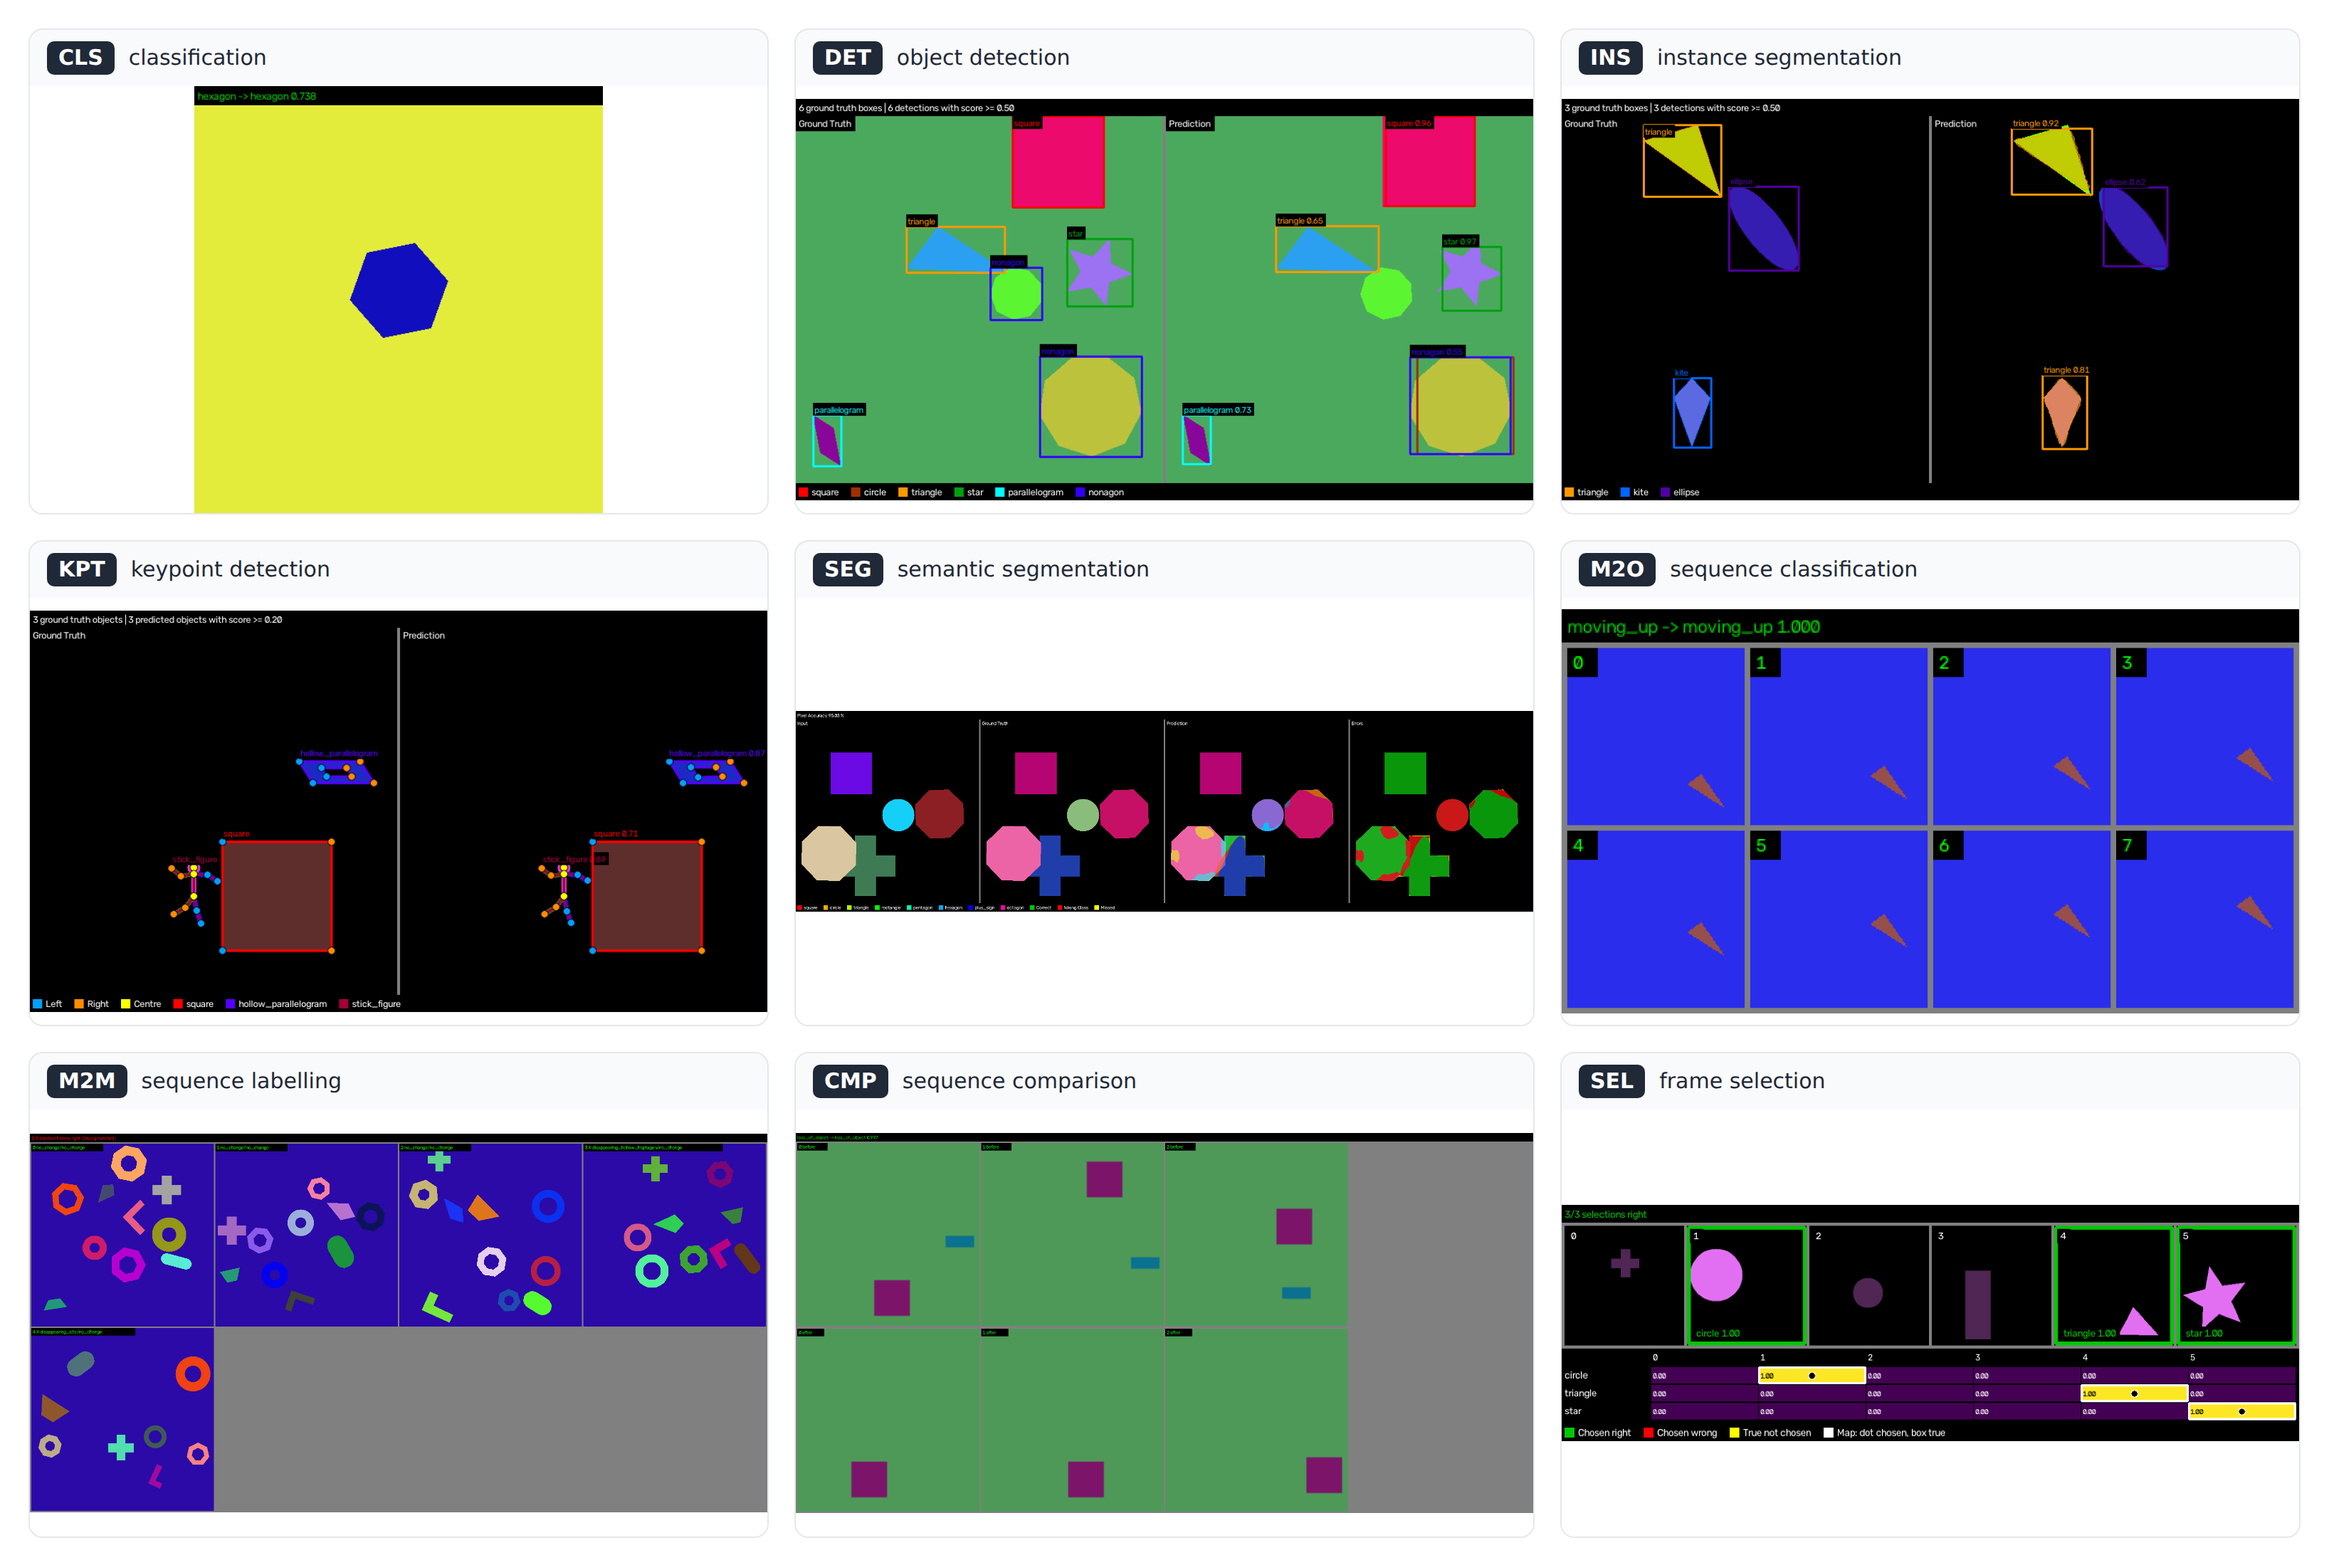
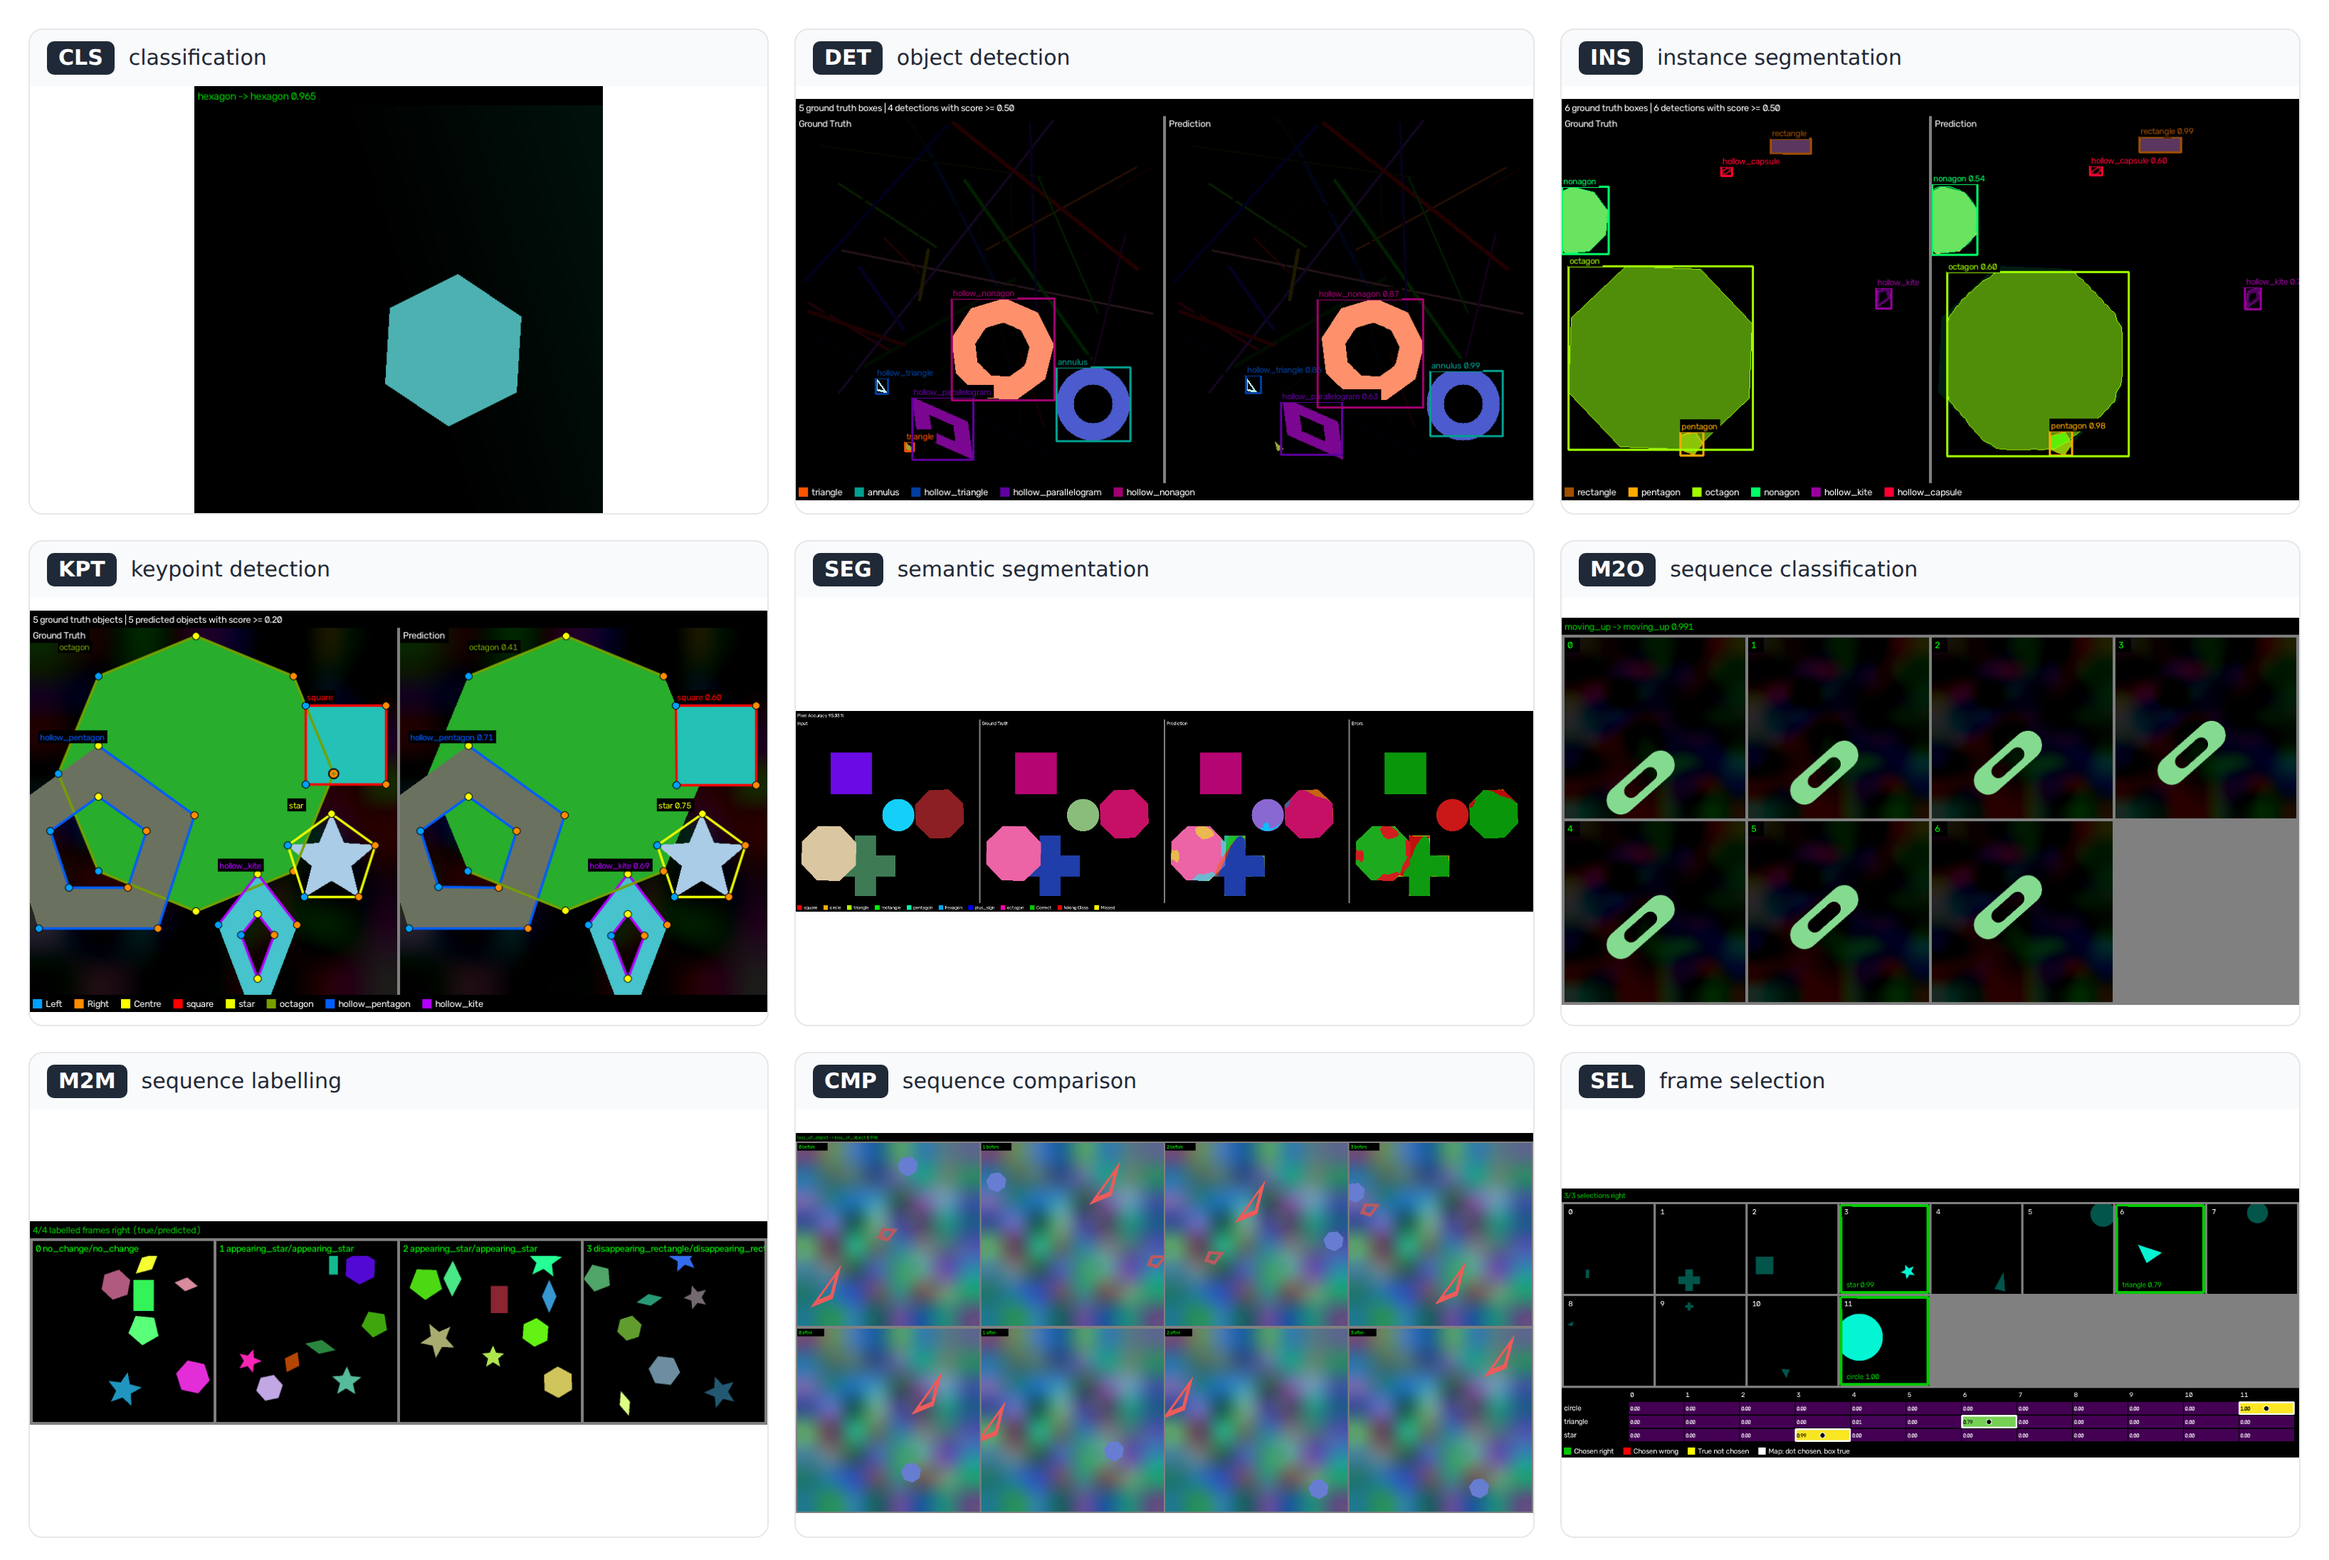
[DOCS] Take README/tasks_overview.png again from the runs the tutorials use (3272 x 2192, the 3 x 3 cells unchanged): CLS test_000012 (hexagon -> hexagon 0.965, README classifier at 2000), DET test_002857 (4 of 5 boxes, tutorial detector at 5000), INS test_001428 (6 of 6 masks, instance segmentation
Claude-Session: https://claude.ai/code/session_016uCt2XTu9R5KcJCjGynGL8

diff --git a/README.md b/README.md
@@ -3,7 +3,7 @@
 <p align="center">
   <img src="README/tasks_overview.png" width="100%" />
 </p>
-<p align="center"><em>One evaluation sample image of every supervised task, from short runs on the synthetic datasets.</em></p>
+<p align="center"><em>One evaluation sample image of every supervised task, from short runs on the synthetic datasets; the semantic segmentation (9 classes) and sequence labelling samples come from runs trained on 2026-10-21 and 2026-11-15, on the datasets of those days.</em></p>
 
 ## Table Of Content
 - [Description](#description)
